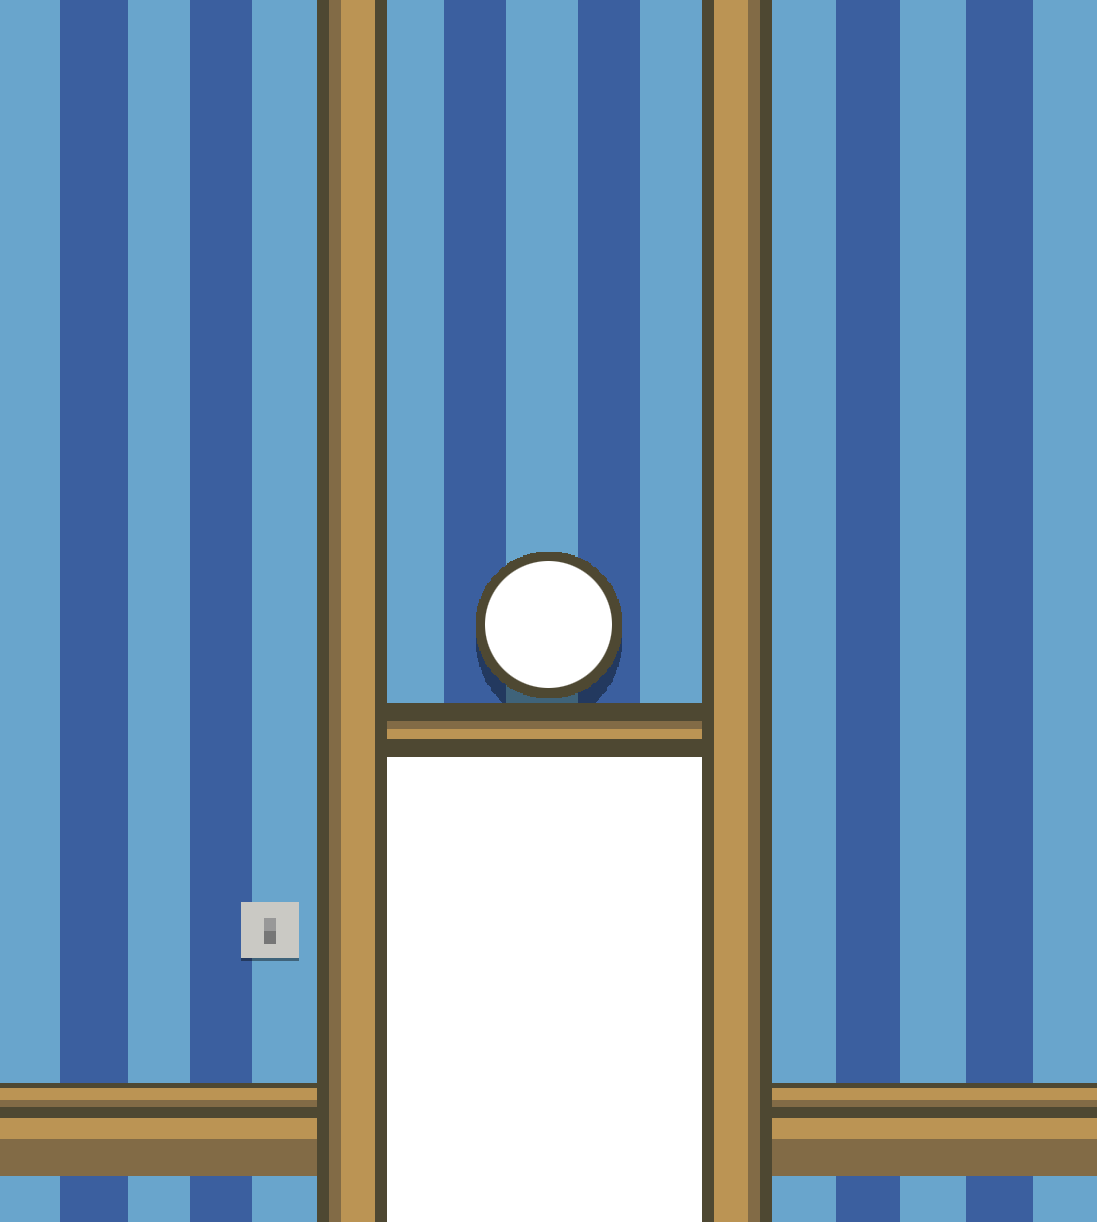
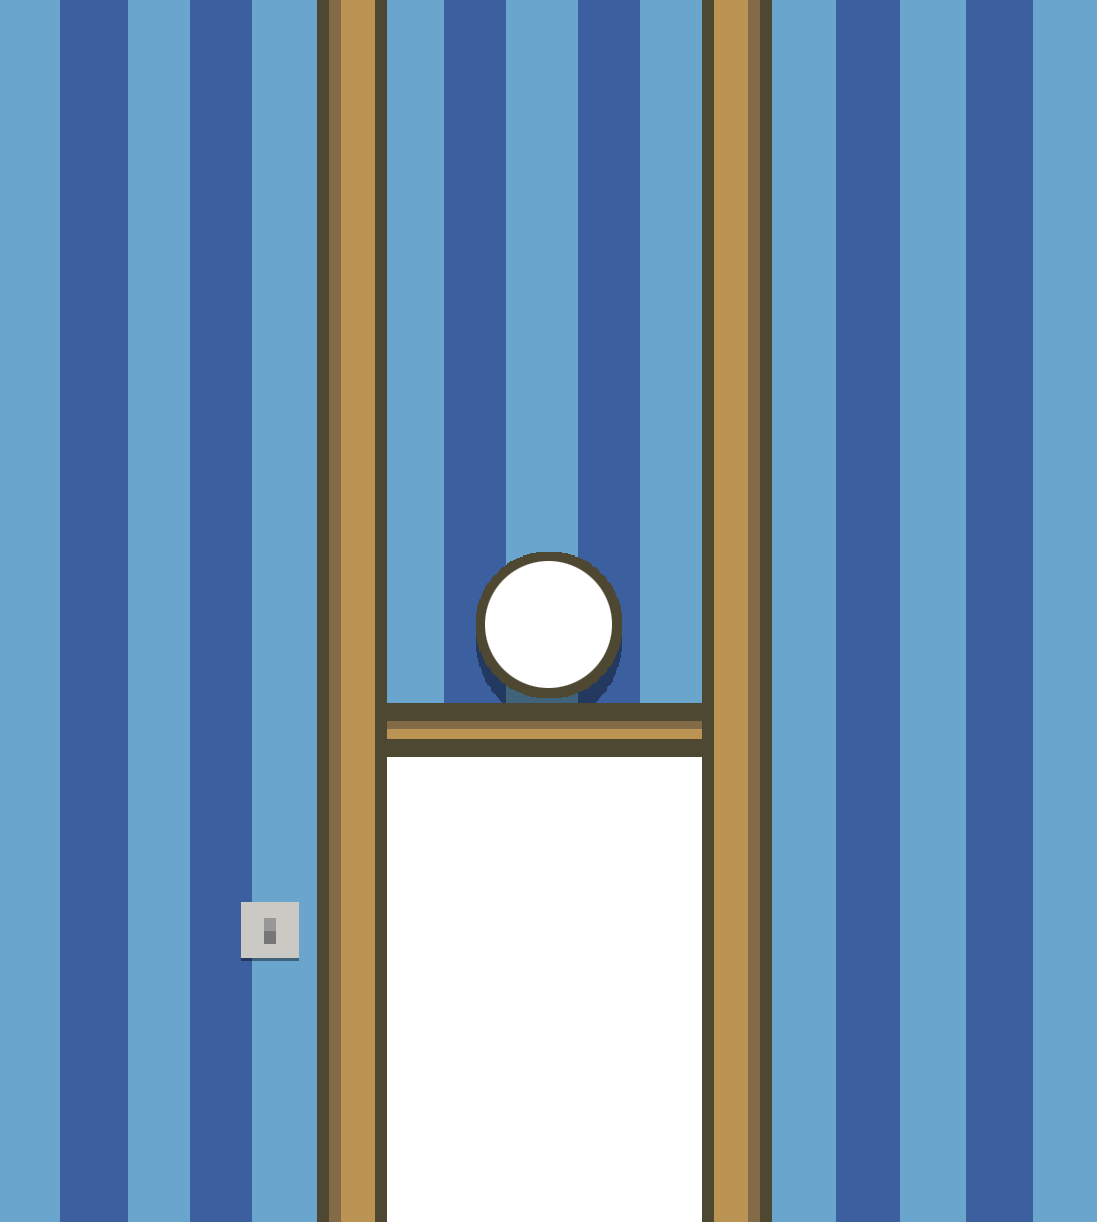
added decal to front

Changed region(s): [[0.6819, 0.8707, 1.0, 0.964], [0.0, 0.8707, 0.3099, 0.964]]

diff --git a/index.html b/index.html
@@ -21,6 +21,7 @@
     <img id="roofright" src="roofright.png">
     <img id="beam" src="beam.png">
     <img id="front" src="frontwall.png">
+    <img id="frontdecal" src="frontwall_decal.png">
     <img id="door" src="door.png">
   </a-assets>
   <a-scene>
@@ -57,6 +58,8 @@
       <a-plane position="7 11 6" width="18" height="5" rotation="0 270 0" material="src: #roofleft; roughness: 1; metalness: 0"></a-plane>
       <!-- FRONT WALL -->
       <a-plane position="-6.92 6.3 2" width="9.5" height="14" rotation="0 90 0" material="src: #front; alphaTest: 0.9; roughness: 1; metalness: 0"></a-plane>
+      <!-- FRONT WALL DECAL-->
+      <a-plane position="-6.92 7 2" width="9.5" height="14" rotation="0 90 0" material="src: #frontdecal; alphaTest: 0.9; roughness: 1; metalness: 0"></a-plane>
 
     <!-- PROPS -->
       <!-- DRAWERS -->
